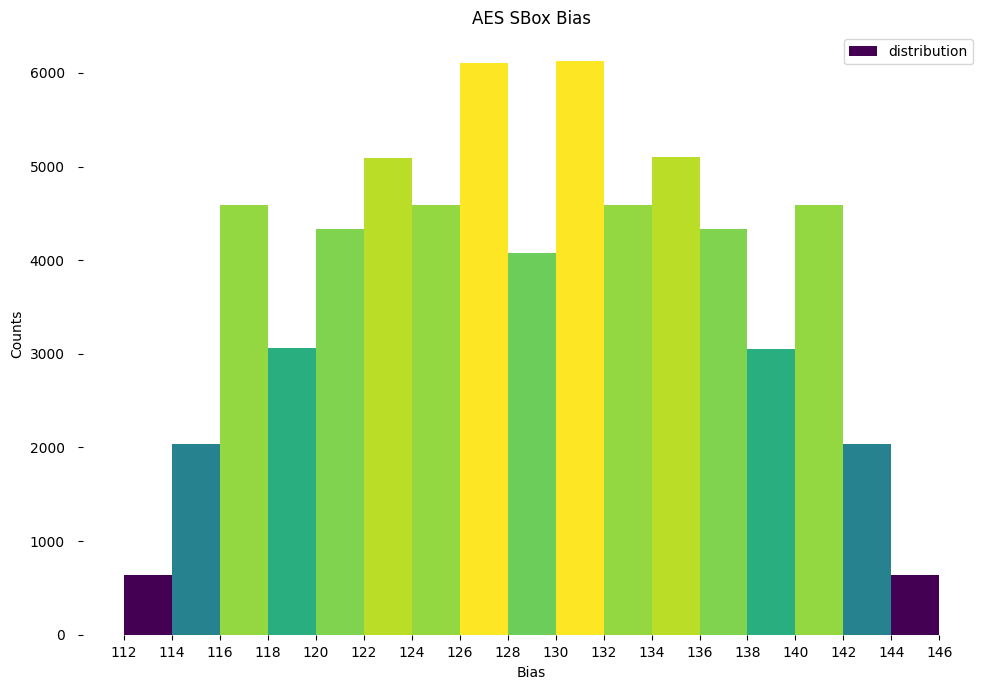
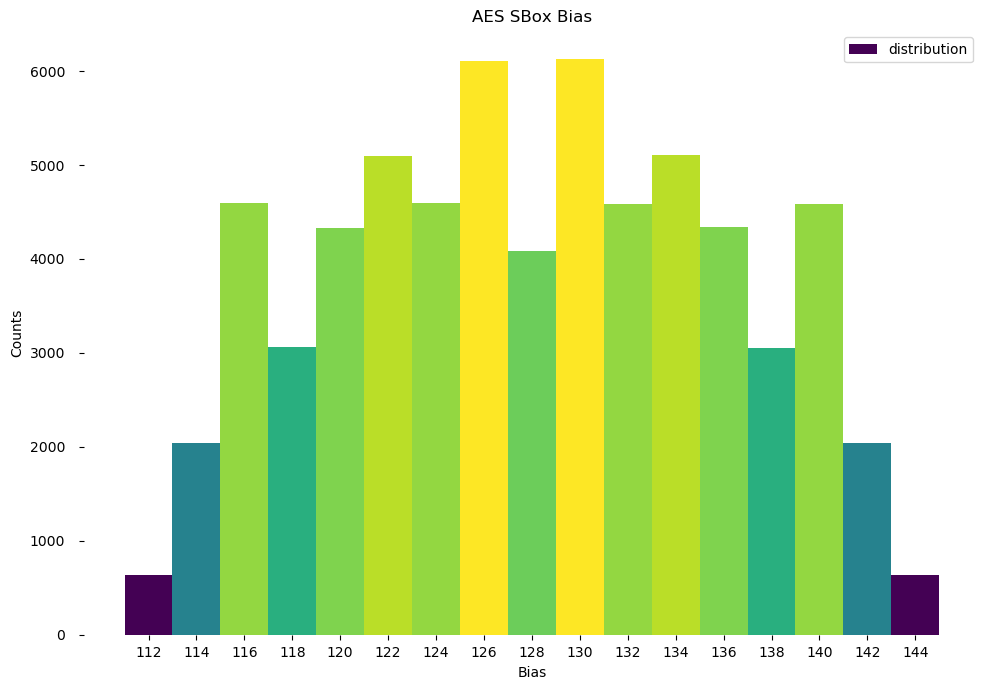
updated README

diff --git a/q2.cpp b/q2.cpp
@@ -233,11 +233,11 @@ int main() {
 					current_total_bias.update(bias[inp_mask][out_mask]);
 				}
 				if (!bad && dp[s][cur_mask] <= current_total_bias) {
-					if (s == 0 && mask == 15) {
-						rev_mask = permute(nxt_mask, PINV);
-						print(cur_mask); print(rev_mask);
-						trace(current_total_bias);
-					}
+					// if (s == 0 && mask == 15) {
+					// 	rev_mask = permute(nxt_mask, PINV);
+					// 	print(cur_mask); print(rev_mask);
+					// 	trace(current_total_bias);
+					// }
 					dp[s][cur_mask] = current_total_bias;
 					parent[s][cur_mask] = nxt_mask;
 				}

diff --git a/q1.py b/q1.py
@@ -72,7 +72,11 @@ axs.yaxis.set_tick_params(pad = 10)
 bins = sorted(list(set(bias))) + [max(bias) + 2]
 N, bins, patches = axs.hist(x, bins = bins) 
 
-axs.set_xticks(bins)  
+ticks = [1 + b for b in bins[:-1]]
+axs.set_xticks(ticks)
+# probs = [round((b - 1 - (1 << (SBOX_SZ - 1))) / (1 << SBOX_SZ), 3) for b in ticks]
+# axs.set_xticklabels([str(b) for b in probs])  
+axs.set_xticklabels([str(b-1) for b in ticks])  
 axs.xaxis.set_tick_params(labelsize=10)  
 
 # Setting color 

diff --git a/README.md b/README.md
@@ -1,1 +1,24 @@
 # LinearCryptanalysis
+
+### AES Bias Visualization
+Write a program to compute the bias of each combination of inputs and outputs to/from
+the AES S-Box (note that each combination should include at least one of the 8 inputs and at
+least one of the 8 outputs). Plot a histogram of the biases and also include a table showing
+the biases and the number of combinations with that bias. (The biases should be positive
+(even – why?) integers).
+
+### Maximum Bias Subgraph Search
+Given an n X n S-Box, the number of stages in the SPN (Substitution Permutation Network)
+and the plaintext/ciphertext block size, write a program to obtain a linear expression with
+the maximum possible bias. The expression should be a XOR of bits of the plaintext, bits of
+the ciphertext and bits of the round keys (all but the last round).
+“A greedy strategy will always work.” Examine the validity of this claim.
+Extra Credit: Implement Step 2 of the linear cryptanalysis attack to deduce bits of the last
+round key
+
+
+### Team Members  -
+
+[Neel Aryan Gupta](https://www.cse.iitb.ac.in/~neelaryan) - 180050067  
+Pulkit Agrawal - 180050081\
+Tathagat Verma - 180050111\
